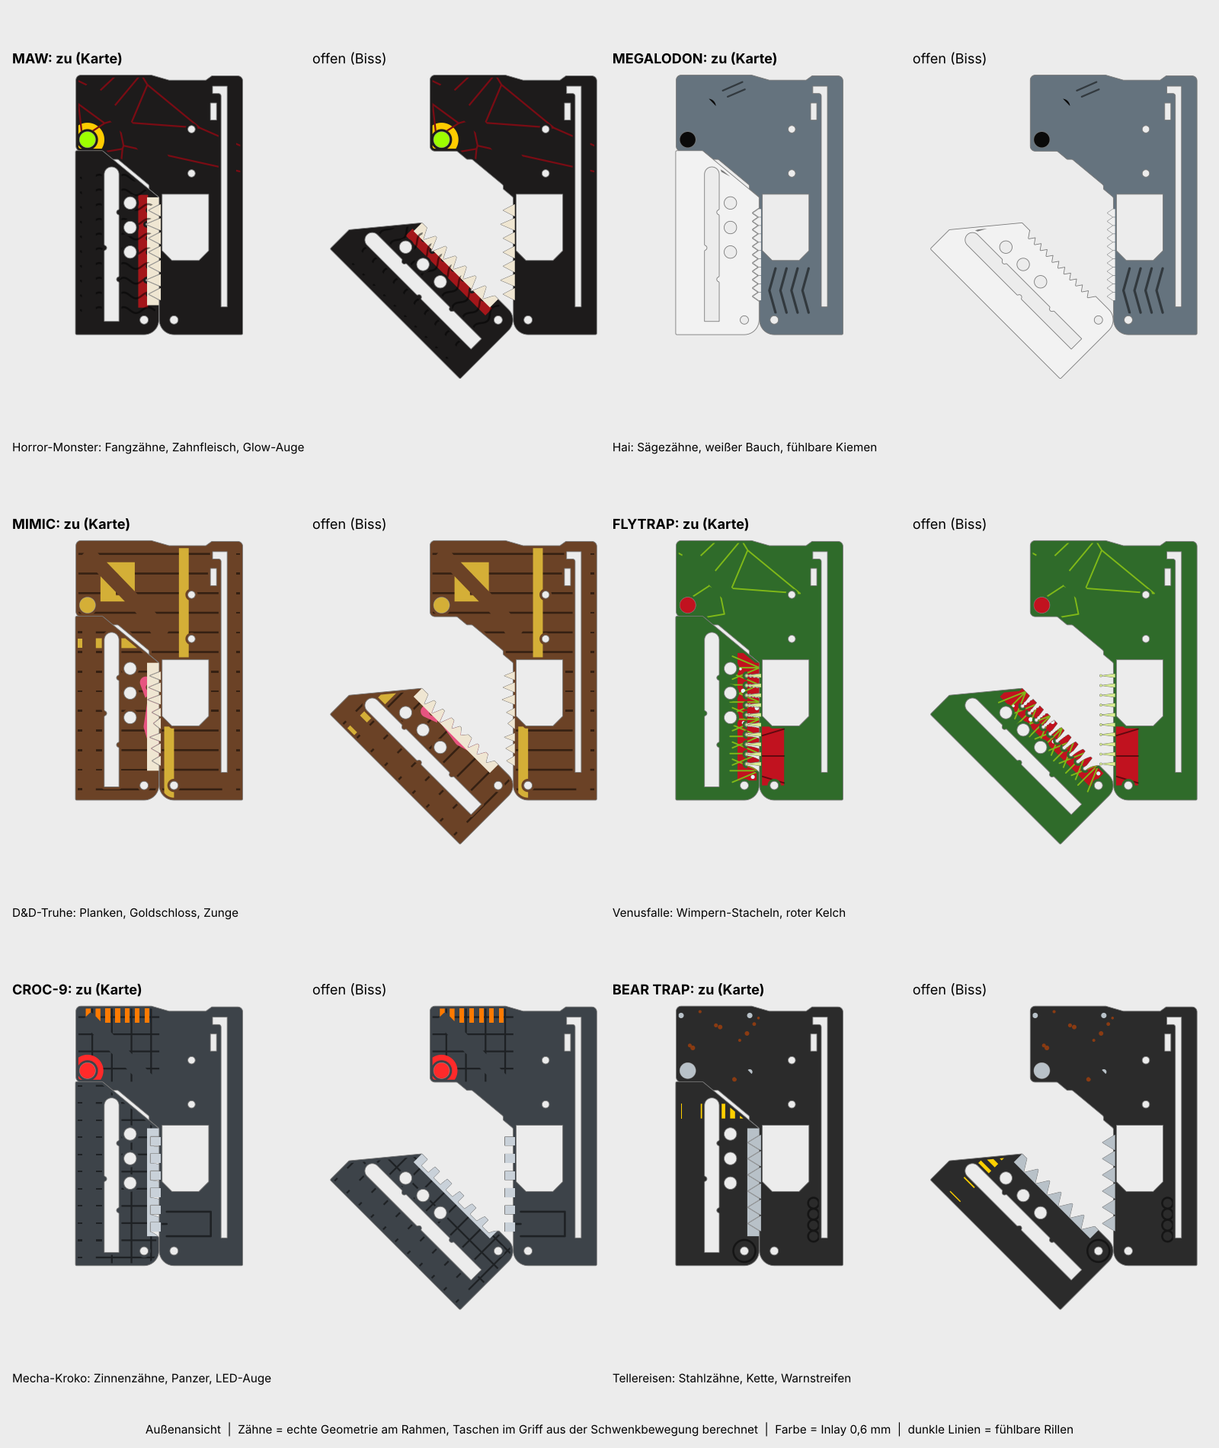
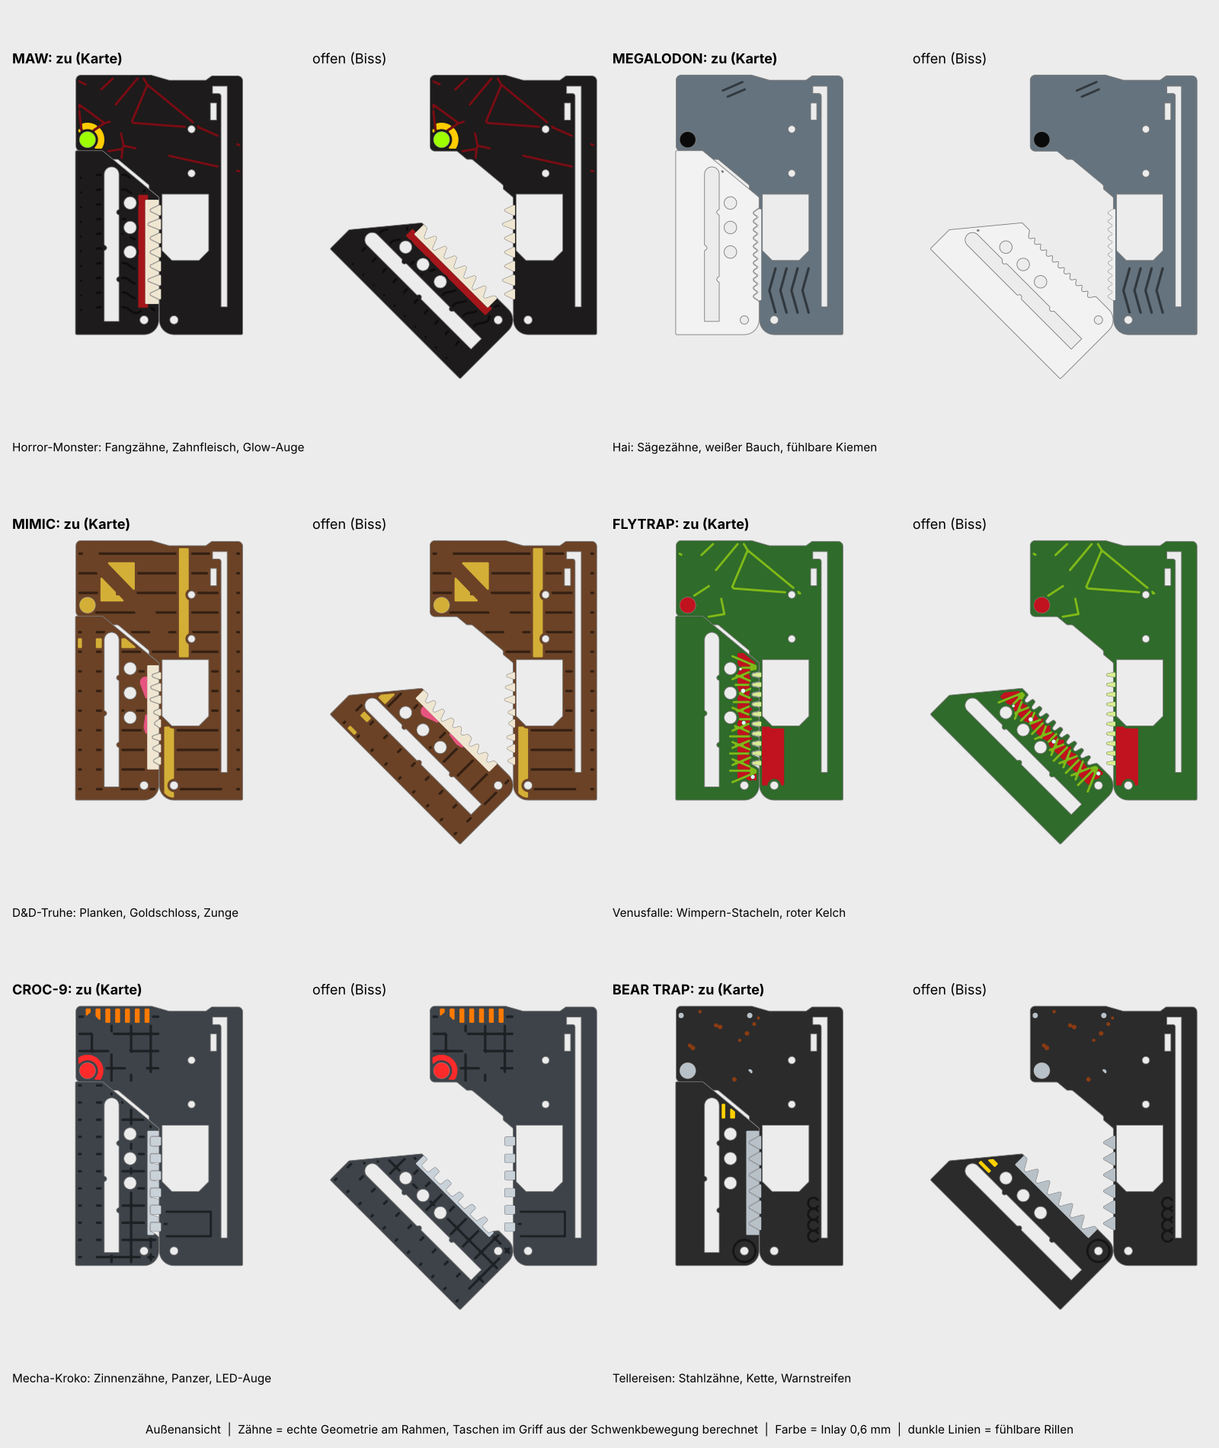
Add printable bite-design build with automatic checks
build.py turns each design into colour-split STLs and refuses to pass unless the card
outline and thickness are unchanged, all features are >= 0.8 mm, meshes are watertight
as a slicer reads them, and the grip still folds from card to pistol pose.

Claude-Session: https://claude.ai/code/session_01Uy73pM5jGkApPoP73jd7mW

diff --git a/moshu/tools/designs.py b/moshu/tools/designs.py
@@ -25,7 +25,9 @@ from shapely.ops import unary_union
 PARTS = Path(__file__).resolve().parent.parent / 'parts'
 A, LINK, GB = np.array([28.0, 6.0]), 12.2, (28.0, 69.0)  # frame pivot, link length, grip pivot (grip coords)
 MOUTH_X, MOUTH_Y = 34.0, (14.0, 54.0)                      # straight part of the seam that gets teeth
-OPEN_PATH = np.linspace(180, 140, 21)                       # grip angle while unfolding (link at 0 deg)
+OPEN_PATH = np.linspace(180, 140, 81)                       # grip angle while unfolding (link at 0 deg)
+MIN_W = 0.8          # smallest printable feature: two 0.4 mm nozzle lines
+CLEARANCE = 0.3      # gap between teeth and sockets
 
 
 def _slice(m, z):
@@ -56,14 +58,14 @@ def grip_unpose(g, phi=0.0, psi=180.0):
 # ---------- teeth (frame side, card coords) ----------
 def teeth(style, rng):
     y0, y1 = MOUTH_Y
-    x = MOUTH_X - 0.6  # root overlaps the frame edge
+    x = MOUTH_X - 1.0  # root overlaps the frame edge (clipped again in build_shapes)
     out = []
     if style == 'square':
         for y in np.arange(y0, y1 - 3, 7.0):
             out.append(box(x, y, MOUTH_X + 3.5, y + 3.5))
         return out
     pitch, h, w = {'fang': (5.7, 4.2, 5.0), 'serrated': (3.4, 2.6, 3.2), 'saw': (6.6, 4.6, 6.4),
-                   'mimic': (5.0, 4.0, 4.6), 'cilia': (4.0, 5.2, 1.5)}[style]
+                   'mimic': (5.0, 4.0, 4.6), 'cilia': (4.0, 5.2, 2.2)}[style]
     for y in np.arange(y0, y1 - w + 0.01, pitch):
         hh, ww = h, w
         if style == 'mimic':
@@ -80,15 +82,37 @@ def teeth(style, rng):
     return out
 
 
+def printable(g, w=MIN_W):
+    """Fill gaps and drop features narrower than w (closing, then opening)."""
+    r = w / 2
+    return g.buffer(r).buffer(-2 * r).buffer(r)
+
+
+def sweep(T, path):
+    """Area a tooth set covers in grip coords while the grip moves along `path` (convex hull per step)."""
+    parts = []
+    for tooth in getattr(T, 'geoms', [T]):
+        poses = [grip_unpose(tooth, 0, psi) for psi in path]
+        parts += [unary_union([a, b]).convex_hull for a, b in zip(poses, poses[1:])]
+    return unary_union(parts)
+
+
 def build_shapes(style, rng):
     frame, frame_safe = load('frame')
     grip, grip_safe = load('grip')
-    T = unary_union(teeth(style, rng))
-    sockets = unary_union([grip_unpose(T, 0, psi) for psi in OPEN_PATH]).buffer(0.3)  # grip coords
+    T = unary_union(teeth(style, rng)).buffer(-0.5).buffer(0.5)        # round tips, >= 1 mm
+    T = T.intersection(box(MOUTH_X - 0.7, -10, MOUTH_X + 20, 120))     # root covers the edge fillet, 0.3 mm short of the trigger window
+    sockets = sweep(T, OPEN_PATH).buffer(CLEARANCE)                    # grip coords
     grip_new = grip.difference(sockets)
-    return {'frame': frame.union(T), 'frame_safe': frame_safe, 'teeth': T,
+    slivers = grip_new.difference(grip_new.buffer(-0.45).buffer(0.45)).intersection(sockets.buffer(1.5))
+    zone = sockets.buffer(1.5)
+    grip_cut = unary_union([sockets, slivers]).buffer(0.05).intersection(zone)  # also eats micron-thin residue
+    grip_new = grip.difference(grip_cut)                               # no walls thinner than 0.9 mm
+    zone = box(MOUTH_X, MOUTH_Y[0] - 1.5, MOUTH_X + 20, MOUTH_Y[1] + 1)
+    x_end = grip_pose(grip_cut).intersection(zone).bounds[2] + 1.0  # teeth colour ends 1 mm past the deepest socket
+    return {'frame': frame.union(T), 'frame_safe': frame_safe, 'teeth': T, 'grip_cut': grip_cut,
             'grip': grip_new, 'grip_safe': grip_safe.intersection(grip_new.buffer(-1.0)),
-            'grip_teeth': grip_pose(grip_new).intersection(box(MOUTH_X, MOUTH_Y[0] - 2, MOUTH_X + 5, MOUTH_Y[1] + 2))}
+            'grip_teeth': grip_pose(grip_new).intersection(box(MOUTH_X, zone.bounds[1], x_end, zone.bounds[3]))}
 
 
 # ---------- art helpers ----------
@@ -129,21 +153,21 @@ BALLS = [(45.9, 53.7), (45.9, 43.7), (45.9, 33.7)]  # ammo holes in card pose
 # ---------- designs: art in card coords; None colour = tactile groove ----------
 def maw(s, rng):
     gums = box(38.6, 11, 42.6, 57)
-    return {'frame': [('#ffcc00', ring(KNOB, 5.6, 2.6)), ('#7a0c14', voronoi(box(34, 75, 68, 106), rng, 14, 0.7)),
+    return {'frame': [('#ffcc00', ring(KNOB, 5.6, 2.6)), ('#7a0c14', voronoi(box(34, 75, 68, 106), rng, 14, 0.9)),
                       ('#efe6d2', s['teeth'])],
             'grip': [('#a4161a', gums), ('#efe6d2', s['grip_teeth']),
-                     (None, unary_union([wave(36, 66, y, 1.2, 3, 0.8) for y in range(10, 70, 6)]))]}
+                     (None, unary_union([wave(36, 66, y, 1.2, 3, 0.9) for y in range(10, 70, 6)]))]}
 
 
 def megalodon(s, rng):
     gills = lines([[(14 + k * 4.5, 9), (16.5 + k * 4.5, 18), (14 + k * 4.5, 27)] for k in range(4)], 1.0)
     return {'frame': [('#efefef', s['teeth']), (None, gills), ('#0a0a0a', Point(55, 93).buffer(3.2)),
-                      ('#ffffff', Point(54, 94.2).buffer(0.9)), (None, lines([[(40, 100), (47, 97)], [(41, 103), (49, 99.5)]], 0.7))],
-            'grip': [(None, lines([[(37, 64), (48, 70)], [(37, 60), (50, 67)]], 0.7))]}
+                      ('#ffffff', Point(54, 94.2).buffer(0.9)), (None, lines([[(40, 100), (47, 97)], [(41, 103), (49, 99.5)]], 0.9))],
+            'grip': [(None, lines([[(37, 64), (48, 70)], [(37, 60), (50, 67)]], 0.9))]}
 
 
 def mimic(s, rng):
-    planks = unary_union([box(-5, y, 75, y + 0.8) for y in range(4, 106, 8)])
+    planks = unary_union([box(-5, y, 75, y + 1.0) for y in range(4, 106, 8)])
     keyhole = unary_union([Point(51, 89).buffer(1.7), box(50.3, 83.5, 51.7, 89)])
     tongue = unary_union([LineString([(35, 20), (38, 30), (36.5, 40), (39.5, 48)]).buffer(2.4)])
     return {'frame': [(None, planks), ('#d4af37', box(44, 81, 58, 97).difference(keyhole)),
@@ -154,15 +178,15 @@ def mimic(s, rng):
 def flytrap(s, rng):
     inside = unary_union([box(34, 8, 43, 60), box(24, 6, 34, 30)])
     veins = lines([[(34, y), (34 + 12 * cos(a), y + 12 * sin(a))] for y in range(12, 58, 7) for a in (-0.4, 0, 0.4)]
-                  + [[(34, y), (34 - 10, y + d)] for y, d in ((10, -3), (18, 0), (26, 3))], 0.6)
+                  + [[(34, y), (34 - 10, y + d)] for y, d in ((10, -3), (18, 0), (26, 3))], 0.9)
     return {'frame': [('#c1121f', box(24, 6, 34, 30)), ('#d9ed92', s['teeth']),
-                      ('#80b918', voronoi(box(34, 75, 68, 106), rng, 10, 0.6)), (None, veins)],
+                      ('#80b918', voronoi(box(34, 75, 68, 106), rng, 10, 0.9)), (None, veins)],
             'grip': [('#c1121f', box(34, 8, 43, 60)), ('#80b918', veins), ('#e0fbfc', dots(inside, rng, 10, (0.5, 0.9)))]}
 
 
 def croc9(s, rng):
-    scutes = unary_union([box(-5, y, 75, y + 0.7) for y in range(3, 106, 7)] + [box(x, -5, x + 0.7, 110) for x in range(5, 70, 8)])
-    piston = lines([[(13, 12), (31, 12)], [(13, 22), (31, 22)], [(13, 12), (13, 22)], [(31, 17), (33, 17)]], 0.8)
+    scutes = unary_union([box(-5, y, 75, y + 1.0) for y in range(3, 106, 7)] + [box(x, -5, x + 1.0, 110) for x in range(5, 70, 8)])
+    piston = lines([[(13, 12), (31, 12)], [(13, 22), (31, 22)], [(13, 12), (13, 22)], [(31, 17), (33, 17)]], 0.9)
     return {'frame': [(None, scutes.intersection(box(34, 75, 68, 106))), ('#ff2a2a', slit_eye(KNOB, 6.5, True)),
                       ('#c9d1d9', s['teeth']), (None, piston),
                       ('#ff7a00', box(36, 99, 66, 105).difference(unary_union([box(36 + k, 98, 38 + k, 106) for k in range(0, 30, 4)])))],
@@ -170,13 +194,13 @@ def croc9(s, rng):
 
 
 def beartrap(s, rng):
-    chain = unary_union([ring((12 + (k % 2) * 0, 12 + k * 4.5), 2.2, 0.8) for k in range(4)])
+    chain = unary_union([ring((12, 12 + k * 4.5), 2.2, 0.9) for k in range(4)])
     hazard = box(34, 60, 68, 66)
     rivets = unary_union([Point(p).buffer(1.1) for p in ((38, 79), (66, 79), (38, 102), (66, 102))])
     return {'frame': [('#b8c1c8', s['teeth']), (None, chain), ('#b8c1c8', rivets),
-                      ('#8a3b12', dots(box(34, 75, 68, 106), rng, 12, (0.4, 1.0)))],
+                      ('#8a3b12', dots(box(34, 75, 68, 106), rng, 12, (0.5, 1.0)))],
             'grip': [('#b8c1c8', s['grip_teeth']), ('#ffd000', hazard.difference(unary_union([box(34 + k, 58, 36 + k, 68) for k in range(0, 34, 4)]))),
-                     (None, ring((40.2, 6), 4.5, 0.8))]}
+                     (None, ring((40.2, 6), 4.5, 0.9))]}
 
 
 DESIGNS = {  # name: (art fn, tooth style, (frame, grip, knob) base colours, one-liner)
@@ -195,9 +219,21 @@ def art(name, seed=3):
     s = build_shapes(style, rng)
     a = fn(s, rng)
     gsafe = grip_pose(s['grip_safe'])
-    clip = {'frame': lambda g, c: g.intersection(s['frame_safe'].union(s['teeth']) if c else s['frame_safe']),
-            'grip': lambda g, c: g.intersection(gsafe.union(s['grip_teeth']) if c else gsafe)}
-    return s, base, desc, {p: [(c, clip[p](g, c)) for c, g in a[p]] for p in a}
+    # only the tooth colour itself may run up to the teeth/sockets; everything else stays in the safe zone
+    clip = {'frame': lambda g: g if g is s['teeth'] else g.intersection(s['frame_safe']),
+            'grip': lambda g: g if g is s['grip_teeth'] else g.intersection(gsafe)}
+    out = {}
+    for p in a:
+        layers = [(c, printable(clip[p](g))) for c, g in a[p]]
+        grooves = unary_union([g for c, g in layers if c is None])
+        colours = [(c, g) for c, g in layers if c]  # grooves are cut in 3D, deeper than the inlays
+        for i in range(len(colours)):  # later colours cover earlier ones -> disjoint inlays
+            later = unary_union([g for _, g in colours[i + 1:]])
+            colours[i] = (colours[i][0], printable(colours[i][1].difference(later)))
+        # tactile grooves keep 1 mm off colour inlays: cleaner look, no near-touching cut walls
+        grooves = printable(grooves.difference(unary_union([g for _, g in colours]).buffer(1.0)))
+        out[p] = [(c, g) for c, g in colours if not g.is_empty] + ([(None, grooves)] if not grooves.is_empty else [])
+    return s, base, desc, out
 
 
 def render(name, axs):

diff --git a/moshu/tools/build.py b/moshu/tools/build.py
@@ -1,0 +1,176 @@
+"""Build print files for a bite design and check that it stays printable and still works.
+
+    python3 -I moshu/tools/build.py MAW            # one design
+    python3 -I moshu/tools/build.py all            # every design
+
+Writes moshu/out/<design>/ (gitignored, it contains the designer's geometry):
+  frame_base.stl, frame_<n>_<colour>.stl, grip_base.stl, grip_<n>_<colour>.stl,
+  checks.txt and preview.png. Load all STLs of one part at once in Bambu Studio and
+  answer "yes" to "load as a single object with multiple parts", then pick a filament per part.
+"""
+import subprocess
+import sys
+from collections import deque
+from pathlib import Path
+
+import numpy as np
+import manifold3d as mf
+import trimesh
+from shapely.geometry import box
+
+sys.path.insert(0, str(Path(__file__).resolve().parent))
+import designs as D  # noqa: E402
+
+ROOT = Path(__file__).resolve().parent.parent
+INLAY = 0.6   # colour depth on the outer face = 3 layers at 0.2 mm
+GROOVE = 0.7  # tactile groove depth (deeper than inlays: no coplanar faces)
+DEPLOYED = (-100, 90)  # link angle, grip angle of the unfolded slingshot
+
+
+def man(path):
+    m = trimesh.load(path)
+    return mf.Manifold(mf.Mesh(vert_properties=np.asarray(m.vertices, np.float32), tri_verts=np.asarray(m.faces, np.uint32)))
+
+
+def extrude(geom, z0, z1):
+    rings = [np.asarray(r.coords)[:-1] for p in getattr(geom, 'geoms', [geom]) if p.geom_type == 'Polygon'
+             for r in [p.exterior, *p.interiors]]
+    return mf.CrossSection(rings, mf.FillRule.EvenOdd).extrude(z1 - z0).translate([0, 0, z0])
+
+
+def pose(G, phi, psi):
+    B = D.A + D.LINK * np.array([np.cos(np.radians(phi)), np.sin(np.radians(phi))])
+    return G.translate([-D.GB[0], -D.GB[1], 0]).rotate([0, 0, psi]).translate([B[0], B[1], 0])
+
+
+def save(m, path):
+    """Export as a slicer will read it: float32 vertices merged, zero-area triangles from
+    collapsed (zero-length) boolean edges removed."""
+    g = m.to_mesh()
+    t = trimesh.Trimesh(np.asarray(g.vert_properties, np.float32)[:, :3].astype(float), np.asarray(g.tri_verts), process=True)
+    f = t.faces  # drop only triangles that collapsed (repeated vertex); collinear ones keep the surface closed
+    t.update_faces((f[:, 0] != f[:, 1]) & (f[:, 1] != f[:, 2]) & (f[:, 0] != f[:, 2]))
+    t.remove_unreferenced_vertices()
+    t.export(path)
+    return trimesh.load(path)  # check the file itself
+
+
+def colour_split(P, layers, face):
+    """Split the outer face into colour inlays, then cut tactile grooves. Returns [(colour|'base', manifold)].
+    Cutters reaching the part outline overshoot it by 0.5 mm so no cut face lies exactly on the part surface."""
+    grooves = [extrude(g, -1, GROOVE) for c, g in layers if c is None]
+    G = sum(grooves[1:], grooves[0]) if grooves else None
+    def prep(g):  # overshoot the outline (reaching 0.02 mm inside it, never exactly on it) + seal hairlines
+        return g.union(g.buffer(0.5).difference(face.buffer(-0.02))).buffer(0.03).buffer(-0.03)
+    out, raw = [], []
+    for c, g in layers:
+        if c is None:
+            continue
+        piece = P ^ extrude(prep(g), -1, INLAY)
+        out.append((c, piece - G if G else piece))
+        raw.append(g)
+    base = P - extrude(prep(D.unary_union(raw)), -1, INLAY) if raw else P  # one cutter: touching colours can't pinch
+    return [('base', base - G if G else base)] + out
+
+
+def motion_check(F, G, F0, G0):
+    """Flood-fill the (link, grip) angle grid from the folded card; the unfolded pose must stay reachable."""
+    phis, psis = range(-110, 15, 5), range(0, 360, 5)
+    vol = {}
+    for phi in phis:
+        for psi in psis:
+            vol[phi, psi] = ((F ^ pose(G, phi, psi)).volume(), (F0 ^ pose(G0, phi, psi)).volume())
+    ok = {k for k, (new, orig) in vol.items() if orig < 10 and new <= orig + 0.5}
+    start, seen, todo = (0, 180), {(0, 180)}, deque([(0, 180)])
+    while todo:
+        phi, psi = todo.popleft()
+        for n in ((phi + 5, psi), (phi - 5, psi), (phi, (psi + 5) % 360), (phi, (psi - 5) % 360)):
+            if n in ok and n not in seen:
+                seen.add(n)
+                todo.append(n)
+    orig_free = {k for k, (_, orig) in vol.items() if orig < 0.5}
+    return start in ok and DEPLOYED in seen, len(seen), len(orig_free - seen)
+
+
+def build(name):
+    s, base, desc, art = D.art(name)
+    out = ROOT / 'out' / name.lower().replace(' ', '_')
+    out.mkdir(parents=True, exist_ok=True)
+    for f in out.glob('*.stl'):
+        f.unlink()
+    F0, G0 = man(D.PARTS / 'frame.stl'), man(D.PARTS / 'grip.stl')
+    F = F0 + extrude(s['teeth'], 0, 10)
+    G = G0 - extrude(s['grip_cut'], -1, 11)
+
+    grip_layers = [(c, D.grip_unpose(g)) for c, g in art['grip']]
+    files, palette = {}, {}
+    grip_face = D.load('grip')[0].difference(s['grip_cut'])
+    for part, P, layers, b, face in (('frame', F, art['frame'], base[0], s['frame']), ('grip', G, grip_layers, base[1], grip_face)):
+        for i, (c, m) in enumerate(colour_split(P, layers, face)):
+            colour = b if c == 'base' else c
+            fn = out / (f'{part}_base.stl' if c == 'base' else f'{part}_{i}_{colour[1:]}.stl')
+            files[fn.name] = save(m, fn)
+            palette[fn.name] = colour
+
+    # ---------- checks ----------
+    checks = []
+    def check(label, ok, detail=''):
+        checks.append(('OK  ' if ok else 'FAIL') + f'  {label}' + (f'  ({detail})' if detail else ''))
+
+    card_new = [F.slice(z) + pose(G, 0, 180).slice(z) for z in (0.7, 5.0, 9.3)]
+    card_old = [F0.slice(z) + pose(G0, 0, 180).slice(z) for z in (0.7, 5.0, 9.3)]
+    close = lambda c: c.offset(0.5, mf.JoinType.Round).offset(-0.5, mf.JoinType.Round)  # ignore the seam between the parts
+    extra = max((close(n) - close(o).offset(0.02, mf.JoinType.Miter)).area() for n, o in zip(card_new, card_old))
+    same_box = all(np.allclose(n.bounds(), o.bounds(), atol=0.05) for n, o in zip(card_new, card_old))
+    check('Karte: Außenkontur unverändert, nichts steht über', same_box and extra < 0.05, f'{extra:.3f} mm² zusätzlich')
+    check('Karte: Dicke unverändert', np.isclose(F.bounding_box()[5], F0.bounding_box()[5]) and np.isclose(G.bounding_box()[5], G0.bounding_box()[5]))
+    frame_face0 = D.load('frame')[0]
+    window = box(0, 0, D.MOUTH_X, 106).difference(frame_face0)  # holes/openings left of the seam
+    check('Zähne ragen nicht ins Abzugsfenster', s['teeth'].intersection(window.buffer(0.2)).area < 1e-6)
+    thin = max([g.difference(g.buffer(-0.39).buffer(0.39)).area / max(g.area, 1e-9) for p in art for _, g in art[p]] + [0])
+    check(f'Druckbar: keine Details unter {D.MIN_W} mm', thin < 0.02, f'{thin:.1%} Fläche grenzwertig')
+    grooves = [g for p in art for c, g in art[p] if c is None]
+    check('Druckbar: Rillen überbrückbar (< 2,5 mm breit)', all(g.buffer(-1.25).is_empty for g in grooves))
+    grip2d = D.load('grip')[0].difference(s['grip_cut'])
+    sliver = grip2d.difference(grip2d.buffer(-0.4).buffer(0.4)).intersection(s['grip_cut'].buffer(1.0))
+    sliver = sliver.buffer(-0.02).buffer(0.02).area  # ignore sub-micron numeric residue
+    check(f'Druckbar: keine Wände unter {D.MIN_W} mm im Griff', sliver < 0.05, f'{sliver:.3f} mm²')
+    check('Alle Teile wasserdicht (slicerfest)', all(t.is_watertight for t in files.values()))
+    reach, n_reach, lost = motion_check(F, G, F0, G0)
+    check('Mechanik: Griff klappt von Karte bis Pistolenstellung frei', reach, f'{n_reach} Stellungen erreichbar, {lost} Original-Stellungen blockiert')
+
+    report = [f'{name} – {desc}', ''] + checks + ['', 'Dateien und Farben:'] + [f'  {k:28s} {v}' for k, v in palette.items()]
+    report += [f'  knob (Original-Teil)         {base[2]}', '', 'Unverändert aus dem Original drucken: slider, spring, cover_plate, nut_plate, screw_plate, knob']
+    (out / 'checks.txt').write_text('\n'.join(report) + '\n')
+    preview(out, palette)
+    print('\n'.join(report[:len(checks) + 2]))
+    return all(c.startswith('OK') for c in checks)
+
+
+def preview(out, palette):
+    """Outside view (from below) of: folded card, biting, unfolded."""
+    states = [((0, 180), 0), ((0, 135), -120), (DEPLOYED, -250)]  # view is mirrored: negative x shows to the right
+    lines = []
+    for (phi, psi), dx in states:
+        B = D.A + D.LINK * np.array([np.cos(np.radians(phi)), np.sin(np.radians(phi))])
+        lines.append(f'translate([{dx},0,0]) {{')
+        for fn, c in palette.items():
+            imp = f'color("{c}") import("{out / fn}");'
+            if fn.startswith('grip'):
+                imp = f'translate([{B[0]},{B[1]},0]) rotate([0,0,{psi}]) translate([{-D.GB[0]},{-D.GB[1]},0]) ' + imp
+            lines.append('  ' + imp)
+        lines.append('}')
+    scad = out / 'preview.scad'
+    scad.write_text('\n'.join(lines) + '\n')
+    subprocess.run(['xvfb-run', '-a', 'openscad', '-o', str(out / 'preview.png'), '--imgsize=2400,1100', '--viewall',
+                    '--autocenter', '--projection=o', '--camera=0,0,0,180,0,180,0', '--colorscheme=Tomorrow', str(scad)],
+                   check=True, capture_output=True)
+    subprocess.run(['convert', str(out / 'preview.png'), '-trim', '-bordercolor', '#f8f8f8', '-border', '30', str(out / 'preview.png')], check=True)
+    scad.unlink()
+
+
+if __name__ == '__main__':
+    names = list(D.DESIGNS) if sys.argv[1] == 'all' else [sys.argv[1]]
+    results = {n: build(n) for n in names}
+    print('\n' + '  '.join(f'{n}: {"OK" if ok else "FAIL"}' for n, ok in results.items()))
+    sys.exit(0 if all(results.values()) else 1)

diff --git a/README.md b/README.md
@@ -25,15 +25,30 @@ Flach liegend drucken, 100 % Infill oder ≥ 5 Wände, PETG oder PA-CF statt PLA
 
 ---
 
-# Moshu Card Slingshot – Designs
+# Moshu Card Slingshot – Biss-Designs
 
-Farb- und Haptik-Designs für die [Moshu Card-Style Slingshot](https://makerworld.com/de/models/3087259) (Original-Geometrie vom Designer, **nicht** in diesem Repo).
+Farb- und Biss-Designs für die [Moshu Card-Style Slingshot](https://makerworld.com/de/models/3087259). Die Original-Geometrie stammt vom Designer und ist **nicht** in diesem Repo.
 
-1. Die 3MF bei MakerWorld herunterladen.
-2. `python3 moshu/tools/extract_3mf.py <datei>.3mf moshu/parts` (benötigt `numpy`). Das erzeugt die einzelnen STLs, die lokal bleiben.
-3. Konzeptblatt: `python3 moshu/tools/designs.py sheet moshu/designs/concepts.png` (benötigt `trimesh shapely scipy matplotlib`).
+Beim Aufklappen schwenkt der Griff an einem Verbindungsglied weg, und die Kante zwischen Rahmen und Griff öffnet sich wie ein Kiefer. Am Rahmen sitzen echte Zähne. Die passenden Taschen im Griff werden aus der Schwenkbewegung berechnet.
 
 ![Konzepte](moshu/designs/concepts.png)
 
-Teile: `frame` (Rahmen), `grip` (Griff mit Kugelkanal), `slider` (Schlitten/Abzug), `spring` (Druckfeder), `cover_plate`, `nut_plate` (2× M3-Mutter), `screw_plate` (2× M3-Senkkopf), `knob` (Knopf mit Öse).
-Original-Druckprofil: Bambu Lab A1, 0,2 mm, 3 Wände, 40 % Infill, ohne Stützen.
+## Bauen
+```
+pip install numpy trimesh shapely scipy matplotlib manifold3d rtree networkx
+python3 moshu/tools/extract_3mf.py <MakerWorld-Download>.3mf moshu/parts
+python3 moshu/tools/build.py all        # oder z. B.: build.py MAW
+```
+Ergebnis in `moshu/out/<design>/` (gitignored): STLs pro Teil und Farbe, `checks.txt` und `preview.png`.
+
+`build.py` bricht mit Fehler ab, wenn eine Prüfung scheitert:
+- **Karte:** Außenkontur und Dicke unverändert, nichts steht über.
+- **Druckbar:** keine Details oder Wände unter 0,8 mm, Rillen überbrückbar, alle Netze wasserdicht (so geprüft, wie ein Slicer die STL liest).
+- **Funktion:** Die Zähne ragen nicht ins Abzugsfenster, und der Griff klappt von der Karte frei bis in die Pistolenstellung.
+
+## In Bambu Studio
+1. Alle STLs eines Teils gleichzeitig öffnen (z. B. `frame_*.stl`) und „als ein Objekt mit mehreren Teilen laden?“ mit **Ja** beantworten.
+2. Jedem Teil das Filament aus `checks.txt` zuweisen.
+3. Die Außenseite liegt bereits unten auf dem Bett. Farbwechsel gibt es nur in den ersten 3 Schichten.
+
+Unverändert aus dem Original drucken: `slider`, `spring`, `cover_plate`, `nut_plate`, `screw_plate`, `knob` (der Knopf in der Augenfarbe). Dazu 2× M3-Senkkopfschraube und 2× M3-Mutter.

diff --git a/CLAUDE.md b/CLAUDE.md
@@ -5,6 +5,7 @@
 - Spannweite Sci-Fi bis Fantasy, gern „tactical“ (fühlbare Strukturen), Farbaufteilung für Mehrfarbdruck.
 - Body darf verändert werden, wo es Funktion und Stabilität nicht betrifft.
 - Erst Vorschläge mit Bild zeigen, dann bauen.
+- Muss **druckbar** bleiben (A1, 0,4er Düse) und das **Grunddesign der Karte** darf nicht kaputtgehen (Kontur/Dicke gleich). `moshu/tools/build.py` prüft das automatisch, Designs nur ausliefern, wenn alle Checks OK sind.
 
 ## Moshu Slingshot – Fakten
 - Originalteile sind nicht im Repo (öffentlich, fremde Lizenz) → `moshu/parts/` ist gitignored, per `moshu/tools/extract_3mf.py` erzeugen.
